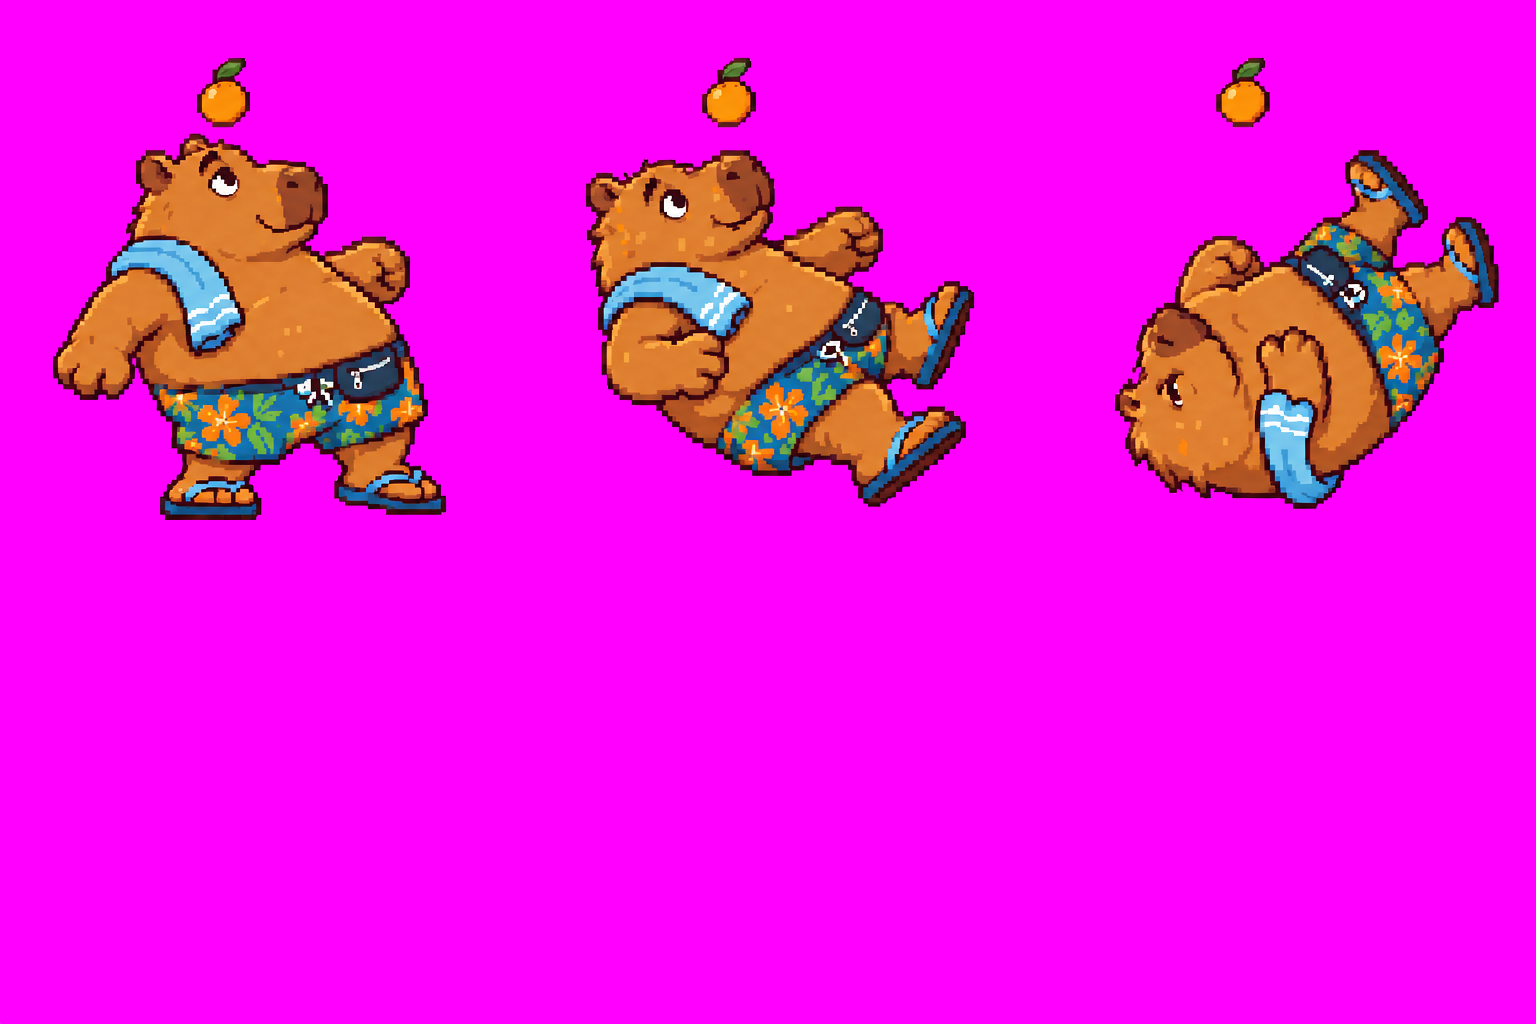
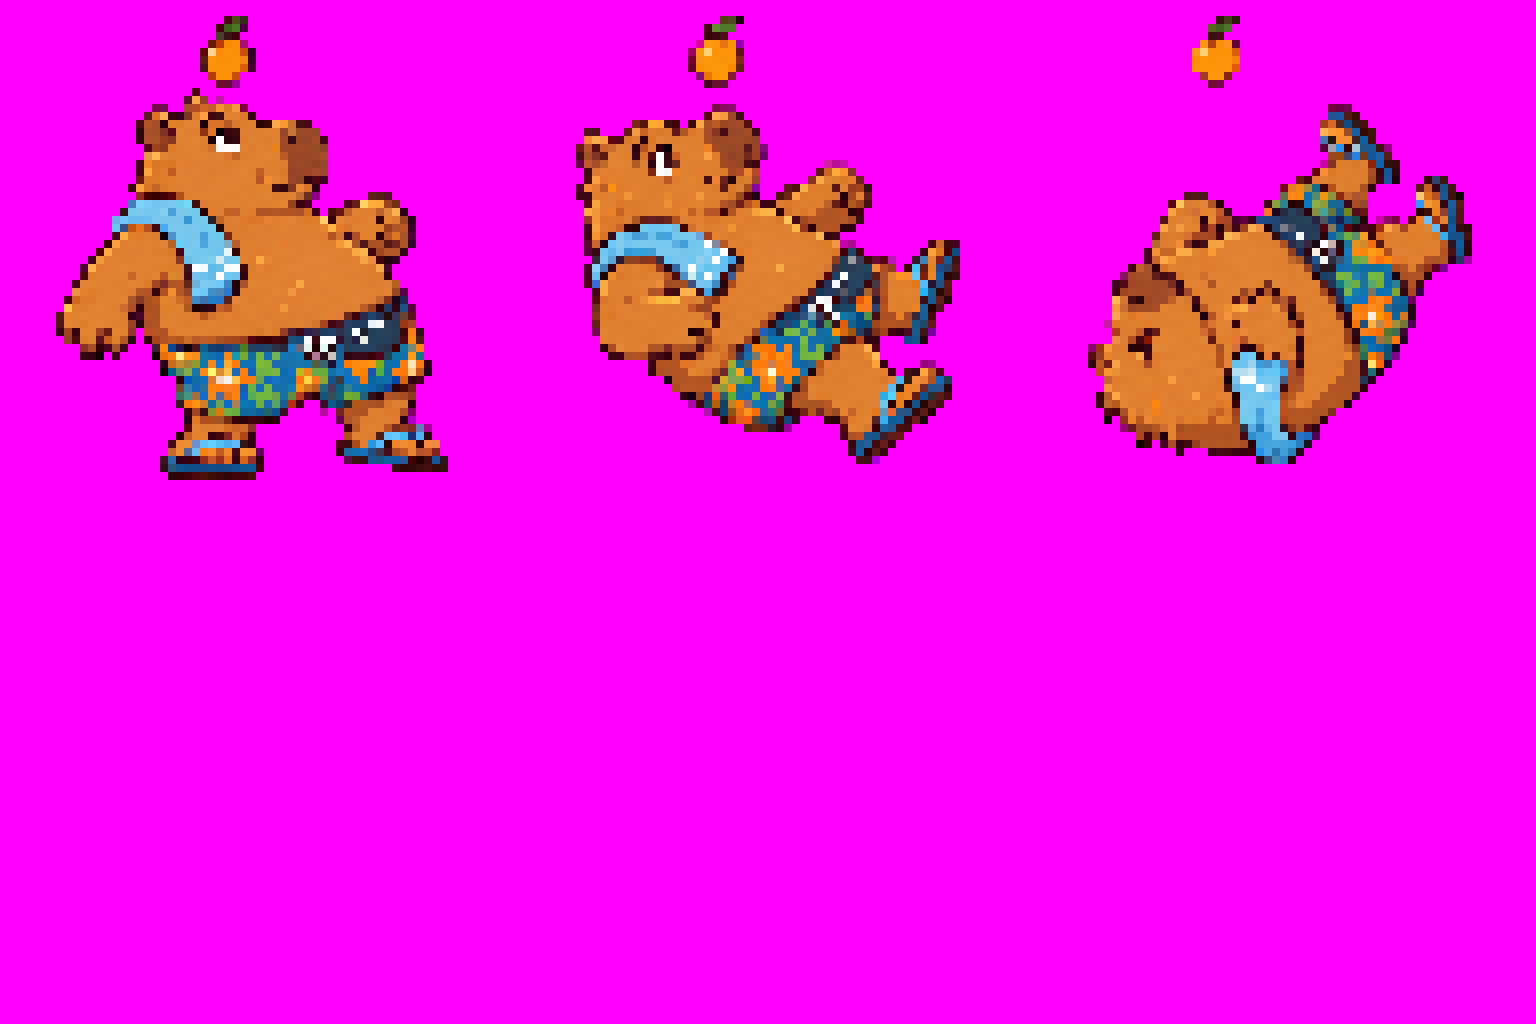
Normalize off-grid Codex sheets to 3x2 grid (normalizar_folha.py)

Changed region(s): [[0.0312, 0.0, 0.3125, 0.5312], [0.375, 0.0, 0.6562, 0.5], [0.6875, 0.0, 1.0, 0.5]]

diff --git a/game/tools/normalizar_folha.py b/game/tools/normalizar_folha.py
@@ -1,0 +1,101 @@
+"""Reorganiza uma folha de pixel art que veio fora da grade padrão (ex.: 4 quadros
+lado a lado numa linha) para a grade do importador: 1536x1024, 3x2 células de
+512x512, quadros de 64x64 ampliados 8x, fundo magenta #FF00FF.
+
+- acha cada quadro pelas faixas de fundo magenta (linhas e colunas vazias);
+- usa pixel de 8x8 (o que o pedido exige; outro valor com --bloco N);
+- reduz para o tamanho nativo e amplia 8x, centrado na célula, pés na linha 59.
+
+Uso (a partir da raiz do repositório):
+  python game/tools/normalizar_folha.py <entrada.png> [saida.png]
+Sem saída, sobrescreve a entrada. Criado no playtest 01 (o gerador às vezes ignora a grade).
+"""
+import sys
+from PIL import Image
+
+CELL, NATIVE, SCALE, BASELINE = 512, 64, 8, 59
+MAG = (255, 0, 255)
+## O pedido sempre exige pixel de 8x8; o gerador erra a grade, não o tamanho do pixel.
+## Para outra escala: --bloco N.
+BLOCO = 8
+
+
+def bg(p):
+    return p[0] > 180 and p[2] > 180 and p[1] < 110
+
+
+def bands(mask_line, min_gap):
+    """Intervalos [a, b) onde há conteúdo, unindo buracos menores que min_gap."""
+    out, start, gap = [], None, 0
+    for i, v in enumerate(mask_line):
+        if v:
+            if start is None:
+                start = i
+            gap = 0
+        elif start is not None:
+            gap += 1
+            if gap >= min_gap:
+                out.append((start, i - gap + 1))
+                start, gap = None, 0
+    if start is not None:
+        out.append((start, len(mask_line) - gap))
+    return out
+
+
+def main():
+    global BLOCO
+    args = sys.argv[1:]
+    if "--bloco" in args:
+        i = args.index("--bloco")
+        BLOCO = float(args[i + 1])
+        del args[i:i + 2]
+    src = args[0]
+    dst = args[1] if len(args) > 1 else src
+    im = Image.open(src).convert("RGB")
+    W, H = im.size
+    px = im.load()
+    rows = bands([any(not bg(px[x, y]) for x in range(0, W, 2)) for y in range(H)], 40)
+    frames = []
+    for (ya, yb) in rows:
+        cols = bands([any(not bg(px[x, y]) for y in range(ya, yb, 2)) for x in range(W)], 8)
+        # dois quadros colados (sem fundo entre eles): corta na coluna mais vazia
+        fixed = []
+        for (xa, xb) in cols:
+            while xb - xa > NATIVE * BLOCO:
+                lo, hi = xa + int((xb - xa) * 0.3), xa + int((xb - xa) * 0.7)
+                cut = min(range(lo, hi), key=lambda x: sum(not bg(px[x, y]) for y in range(ya, yb)))
+                fixed.append((xa, cut))
+                xa = cut
+            fixed.append((xa, xb))
+        cols = fixed
+        for (xa, xb) in cols:
+            frames.append((xa, ya, xb, yb))
+    if len(frames) > 6:
+        sys.exit(f"{src}: {len(frames)} quadros achados, mais que 6; confira à mão")
+    out = Image.new("RGB", (1536, 1024), MAG)
+    for i, box in enumerate(frames):
+        b = BLOCO
+        xa, ya, xb, yb = box
+        w, h = max(1, round((xb - xa) / b)), max(1, round((yb - ya) / b))
+        small = Image.new("RGBA", (w, h), (0, 0, 0, 0))
+        for y in range(h):
+            for x in range(w):
+                p = im.getpixel((min(W - 1, int(xa + (x + 0.5) * b)), min(H - 1, int(ya + (y + 0.5) * b))))
+                if not bg(p):
+                    small.putpixel((x, y), (*p, 255))
+        if w > NATIVE or h > NATIVE:
+            sys.exit(f"{src}: quadro {i + 1} com {w}x{h} nativos (bloco {b}); maior que 64")
+        cell = Image.new("RGBA", (NATIVE, NATIVE), (0, 0, 0, 0))
+        cell.alpha_composite(small, ((NATIVE - w) // 2, max(0, BASELINE + 1 - h)))
+        big = cell.resize((CELL, CELL), Image.NEAREST)
+        c, r = i % 3, i // 3
+        layer = Image.new("RGB", (CELL, CELL), MAG)
+        layer.paste(big, (0, 0), big)
+        out.paste(layer, (c * CELL, r * CELL))
+        print(f"  quadro {i + 1}: bloco {b}px -> {w}x{h} nativos")
+    out.save(dst)
+    print(f"{src}: {len(frames)} quadros -> {dst}")
+
+
+if __name__ == "__main__":
+    main()
